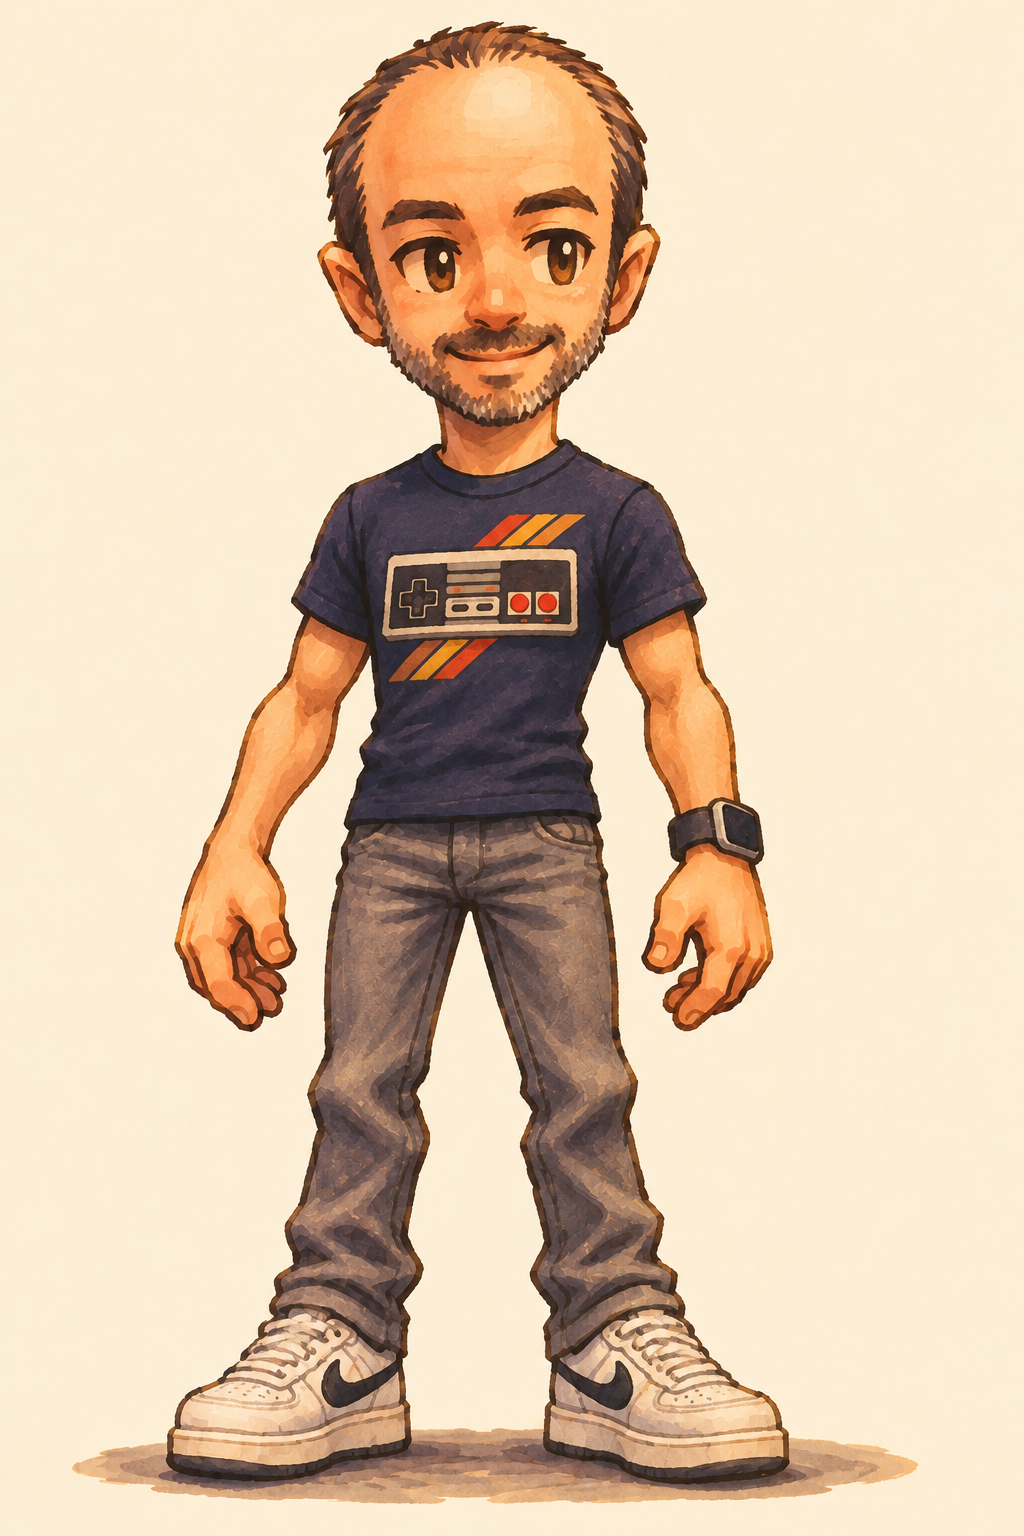
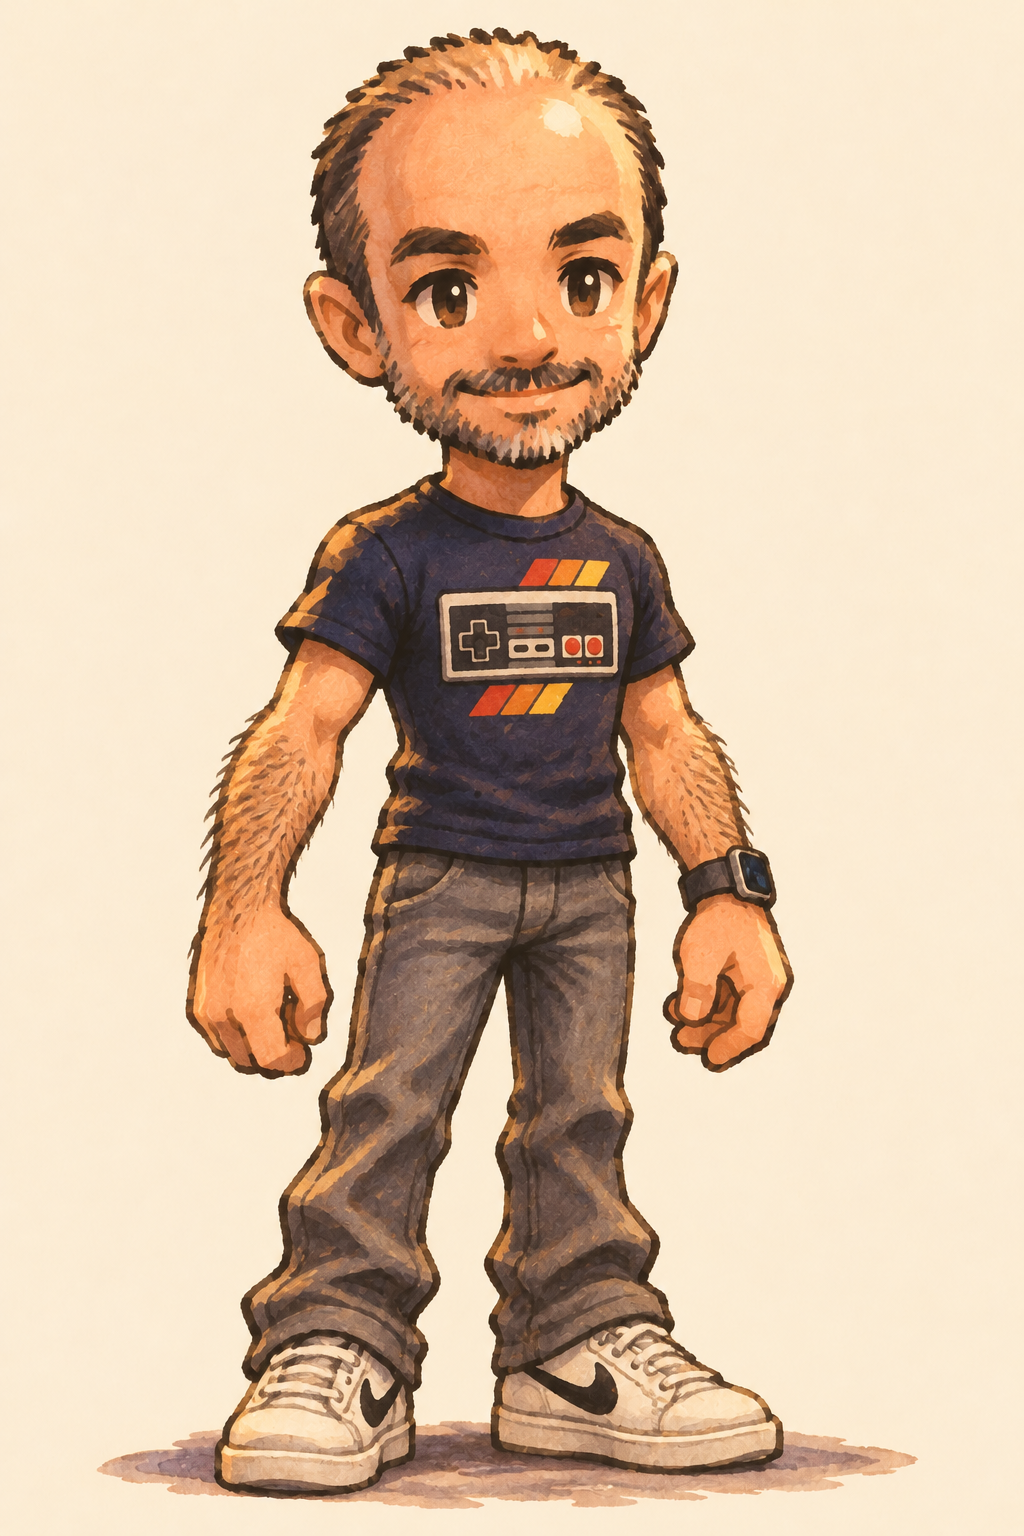
New hero painting for Tom: hero ref and portrait recut (tomhero2)
Claude-Session: https://claude.ai/code/session_01RXeukGifJ7cjBhZvNEjpGi

Changed region(s): [[0.0625, 0.0, 0.9062, 1.0]]

diff --git a/engine/menu.js b/engine/menu.js
@@ -10,7 +10,7 @@ const MENU_TABS=[{id:'home',label:'Party'},{id:'items',label:'Items'},{id:'gear'
 const PER_CHAR_TABS=['status','gear','stamps'];
 // Character portraits (menu roster, dialogue box, battle panels, chapter select): head crops of each hero painting,
 // baked by tools/sprite-bake/bake_portraits.py (256 x 256). Boomie has no hero painting yet. Empty shows a placeholder.
-const PORTRAITS={tom:'portraits/tom.png?v=heroport2',ellie:'portraits/ellie.png?v=heroport2',amy:'portraits/amy.png?v=heroport2',justin:'portraits/justin.png?v=heroport2',olivia:'portraits/olivia.png?v=heroport2',grace:'portraits/grace.png?v=heroport2',deedee:'portraits/deedee.png?v=heroport2',boppy:'portraits/boppy.png?v=heroport2',nara:'portraits/nara.png?v=nara2',boomie:'portraits/boomie.png?v=1',tnb:'portraits/tnb.png?v=heroport2',rose:'portraits/rose.png?v=heroport2'};
+const PORTRAITS={tom:'portraits/tom.png?v=tomhero2',ellie:'portraits/ellie.png?v=heroport2',amy:'portraits/amy.png?v=heroport2',justin:'portraits/justin.png?v=heroport2',olivia:'portraits/olivia.png?v=heroport2',grace:'portraits/grace.png?v=heroport2',deedee:'portraits/deedee.png?v=heroport2',boppy:'portraits/boppy.png?v=heroport2',nara:'portraits/nara.png?v=nara2',boomie:'portraits/boomie.png?v=1',tnb:'portraits/tnb.png?v=heroport2',rose:'portraits/rose.png?v=heroport2'};
 // Speaking monsters: zoomed face crops from each enemy's painted stance frame (tools/sprite-bake/bake_foe_portraits.py). Keys are foe_<id>.
 for(const id of ["mudling", "skeeter", "grump", "bigone", "coyote", "smoglet", "tickets", "bigshake", "soggysock", "tangle", "snag", "irongill", "ironbelly", "wetblanket", "thedraft", "pickyeater", "boommoth", "clapper", "cuecrab", "directorscut", "chairman", "cheekstuffer", "peanutgallery", "twigspy", "dodgeball", "glitterglue", "tardybell", "redpen", "cliffhanger", "knowitall", "popup", "unread", "coathanger", "soreloser", "wallflower", "mirrorball", "longline", "unclaimed", "armresthog", "lastcall", "gridlockprime", "finalcall", "standbysprite", "hush9final", "drillworm", "censor", "leviathan", "brainfreeze", "slushslug", "gremlin", "conehead"]) PORTRAITS['foe_'+id]='portraits/foes/'+id+'.webp?v=foeport1';
 let playTime=0;

diff --git a/index.html b/index.html
@@ -1322,7 +1322,7 @@ document.addEventListener('click',function(e){var n=e.target.closest&&e.target.c
 <script src="data/maps-la.js?v=rmmask6"></script>
 <script src="data/maps-ch12.js"></script>
 <script src="engine/la.js"></script>
-<script src="engine/menu.js?v=nara2"></script>
+<script src="engine/menu.js?v=tomhero2"></script>
 <script src="engine/followers.js?v=wind1"></script>
 <script src="engine/shop.js?v=justin2"></script>
 <script src="engine/audio.js?v=tab1"></script>

diff --git a/tools/sprite-bake/bake_portraits.py b/tools/sprite-bake/bake_portraits.py
@@ -27,7 +27,7 @@ SIDE = 410       # square side in source pixels for an average face
 EYE_AT = 0.52    # eye line, share of the square from the top
 # id: (left pupil x, right pupil x, eye line y, chin y) in source pixels (chin = bottom of beard).
 FACE = {
-    'tom': (467, 570, 252, 422), 'tnb': (402, 527, 295, 465), 'grace': (442, 560, 290, 405),
+    'tom': (455, 589, 286, 467), 'tnb': (402, 527, 295, 465), 'grace': (442, 560, 290, 405),
     'rose': (472, 584, 278, 403), 'amy': (432, 545, 232, 370), 'justin': (417, 537, 270, 475),
     'olivia': (437, 542, 265, 385), 'deedee': (442, 557, 280, 410), 'boppy': (422, 572, 345, 515),
     'ellie': (452, 562, 263, 415),

diff --git a/docs/CHANGES.md b/docs/CHANGES.md
@@ -1,3 +1,9 @@
+## 2026-11-06 (333): New hero painting for Tom (`tomhero2`)
+
+- Tom sent a new full-body hero painting (hairy forearms, smaller head share, same shirt, jeans and shoes). Saved over `art/raw/characters/tom-hero-ref-v1.png` (old picture purged; git history keeps it). The Art Library entries that attach Tom's hero pick it up with no change.
+- Portrait recut from it: `portraits/tom.png`, Tom's face measured again in `FACE` in `tools/sprite-bake/bake_portraits.py` (455, 589, 286, 467); the face fills the square like the rest of the cast. Tags: `engine/menu.js` and its `PORTRAITS` entry `tomhero2`.
+- NOT changed: Tom's walk sheet, battle sheets, ability sheets and every baked sprite were painted from the old hero and still show the old look until Tom asks for them to be redone.
+
 ## 2026-11-06 (332): The Wallflower waits by the big gold frame in the ballroom (`ballroom1`)
 
 - Tom: the mirror in the ballroom is hard to find. Fact: the Wallflower, who gives the third mirror, stood at the left side of the dance floor (11,17), but her lines say she hides behind "this mirror", and the only mirror in the ballroom is the big gold frame on the right wall (23,15).
